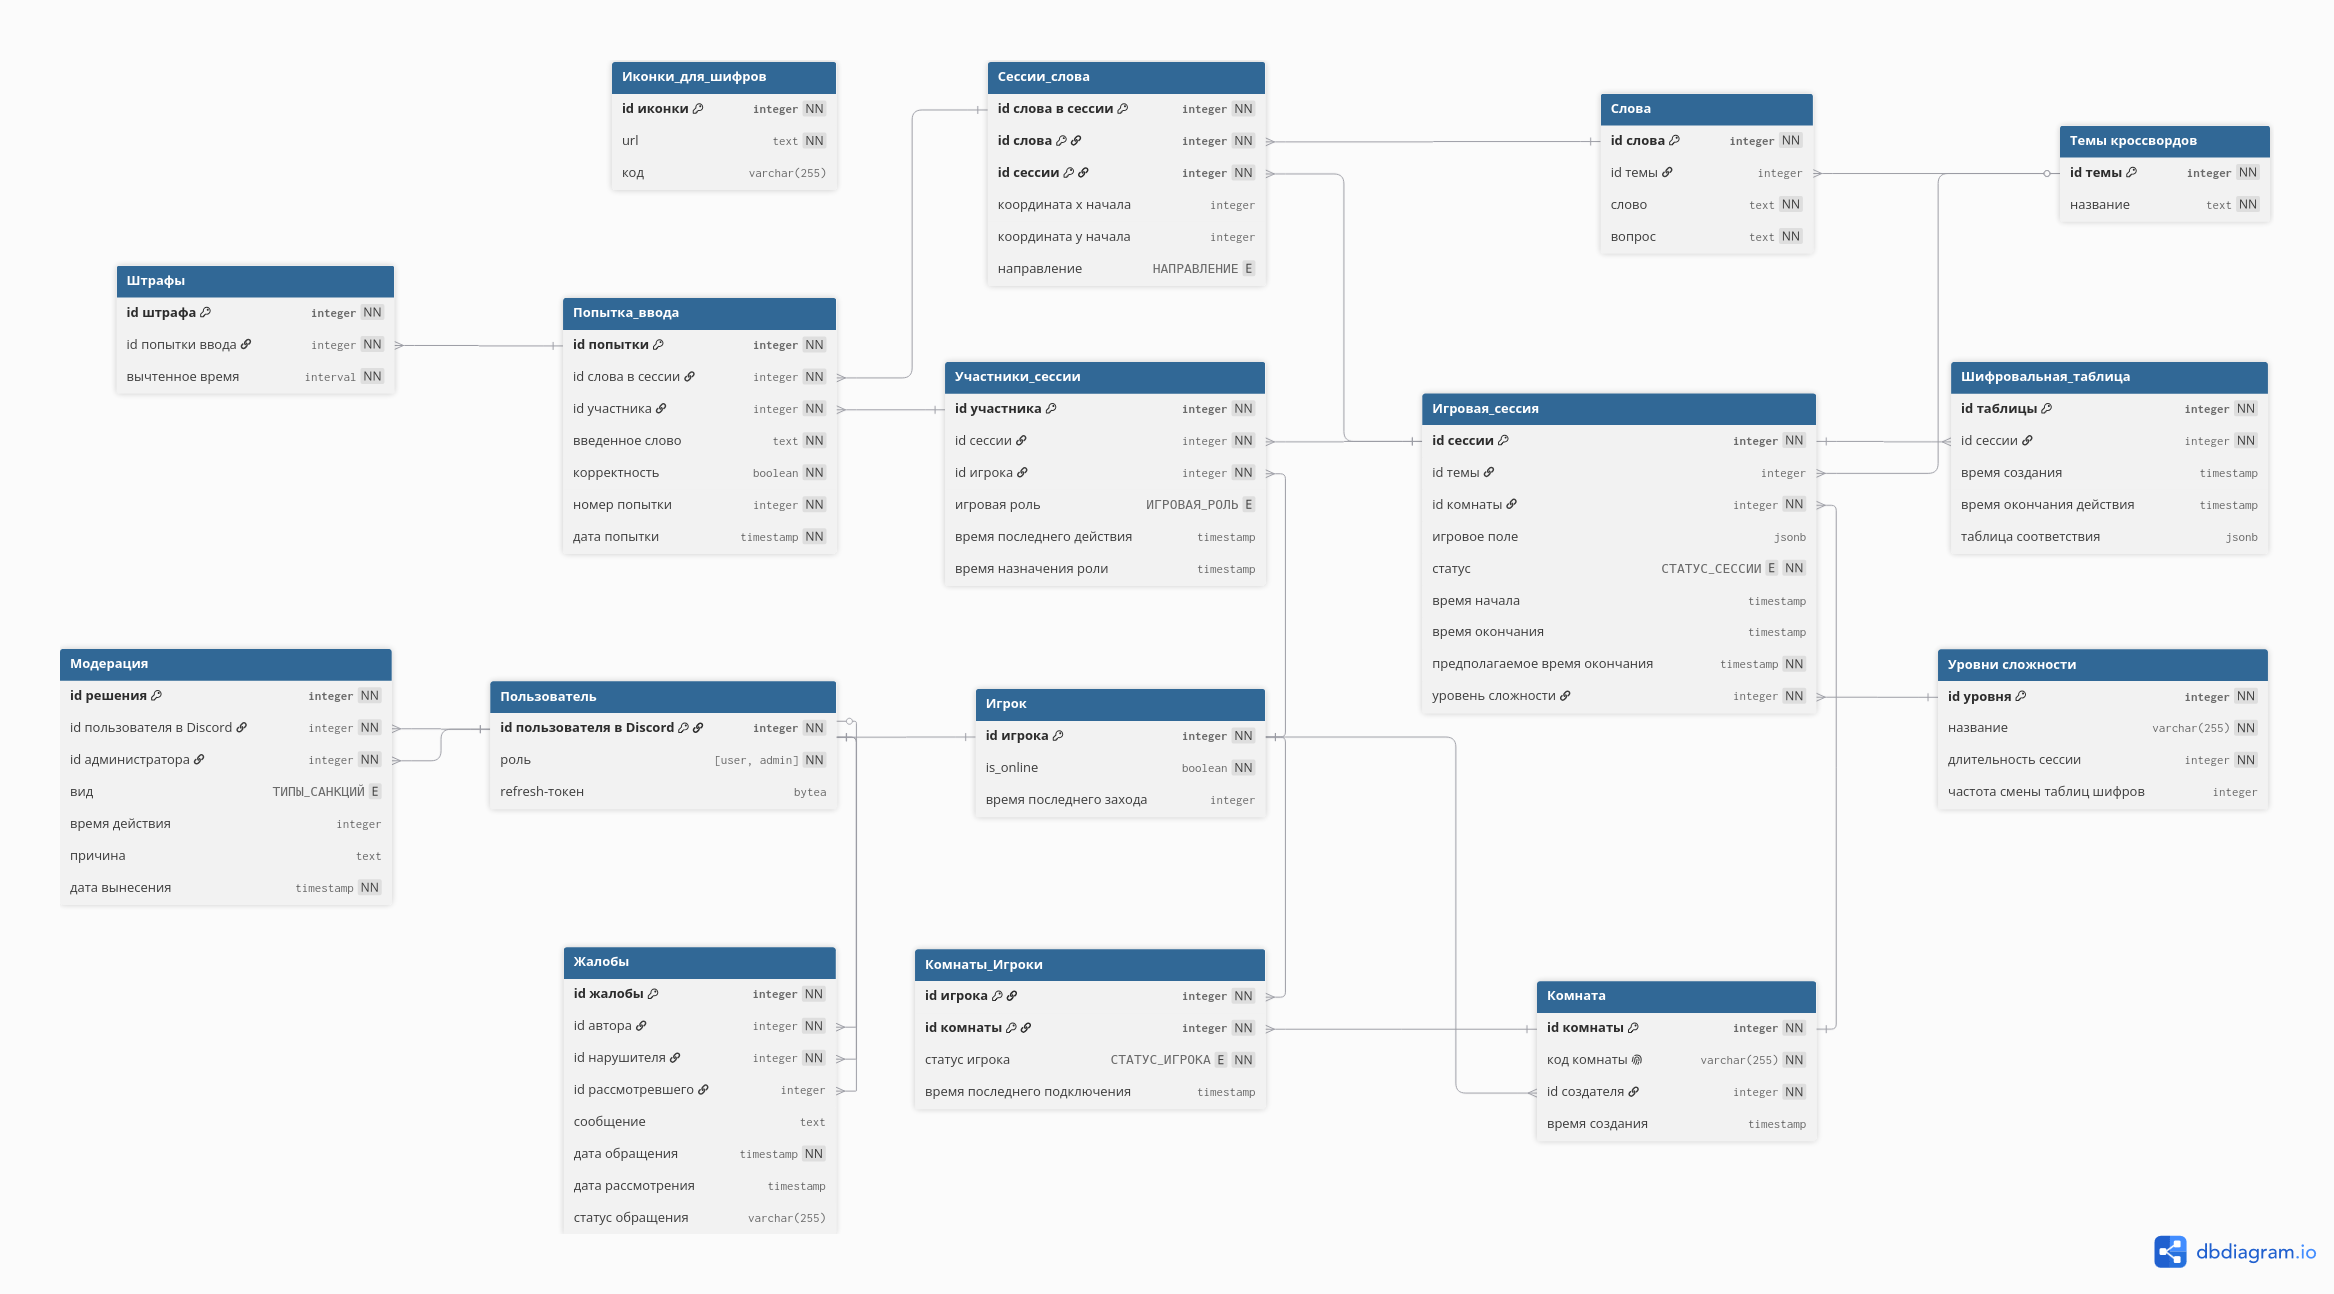
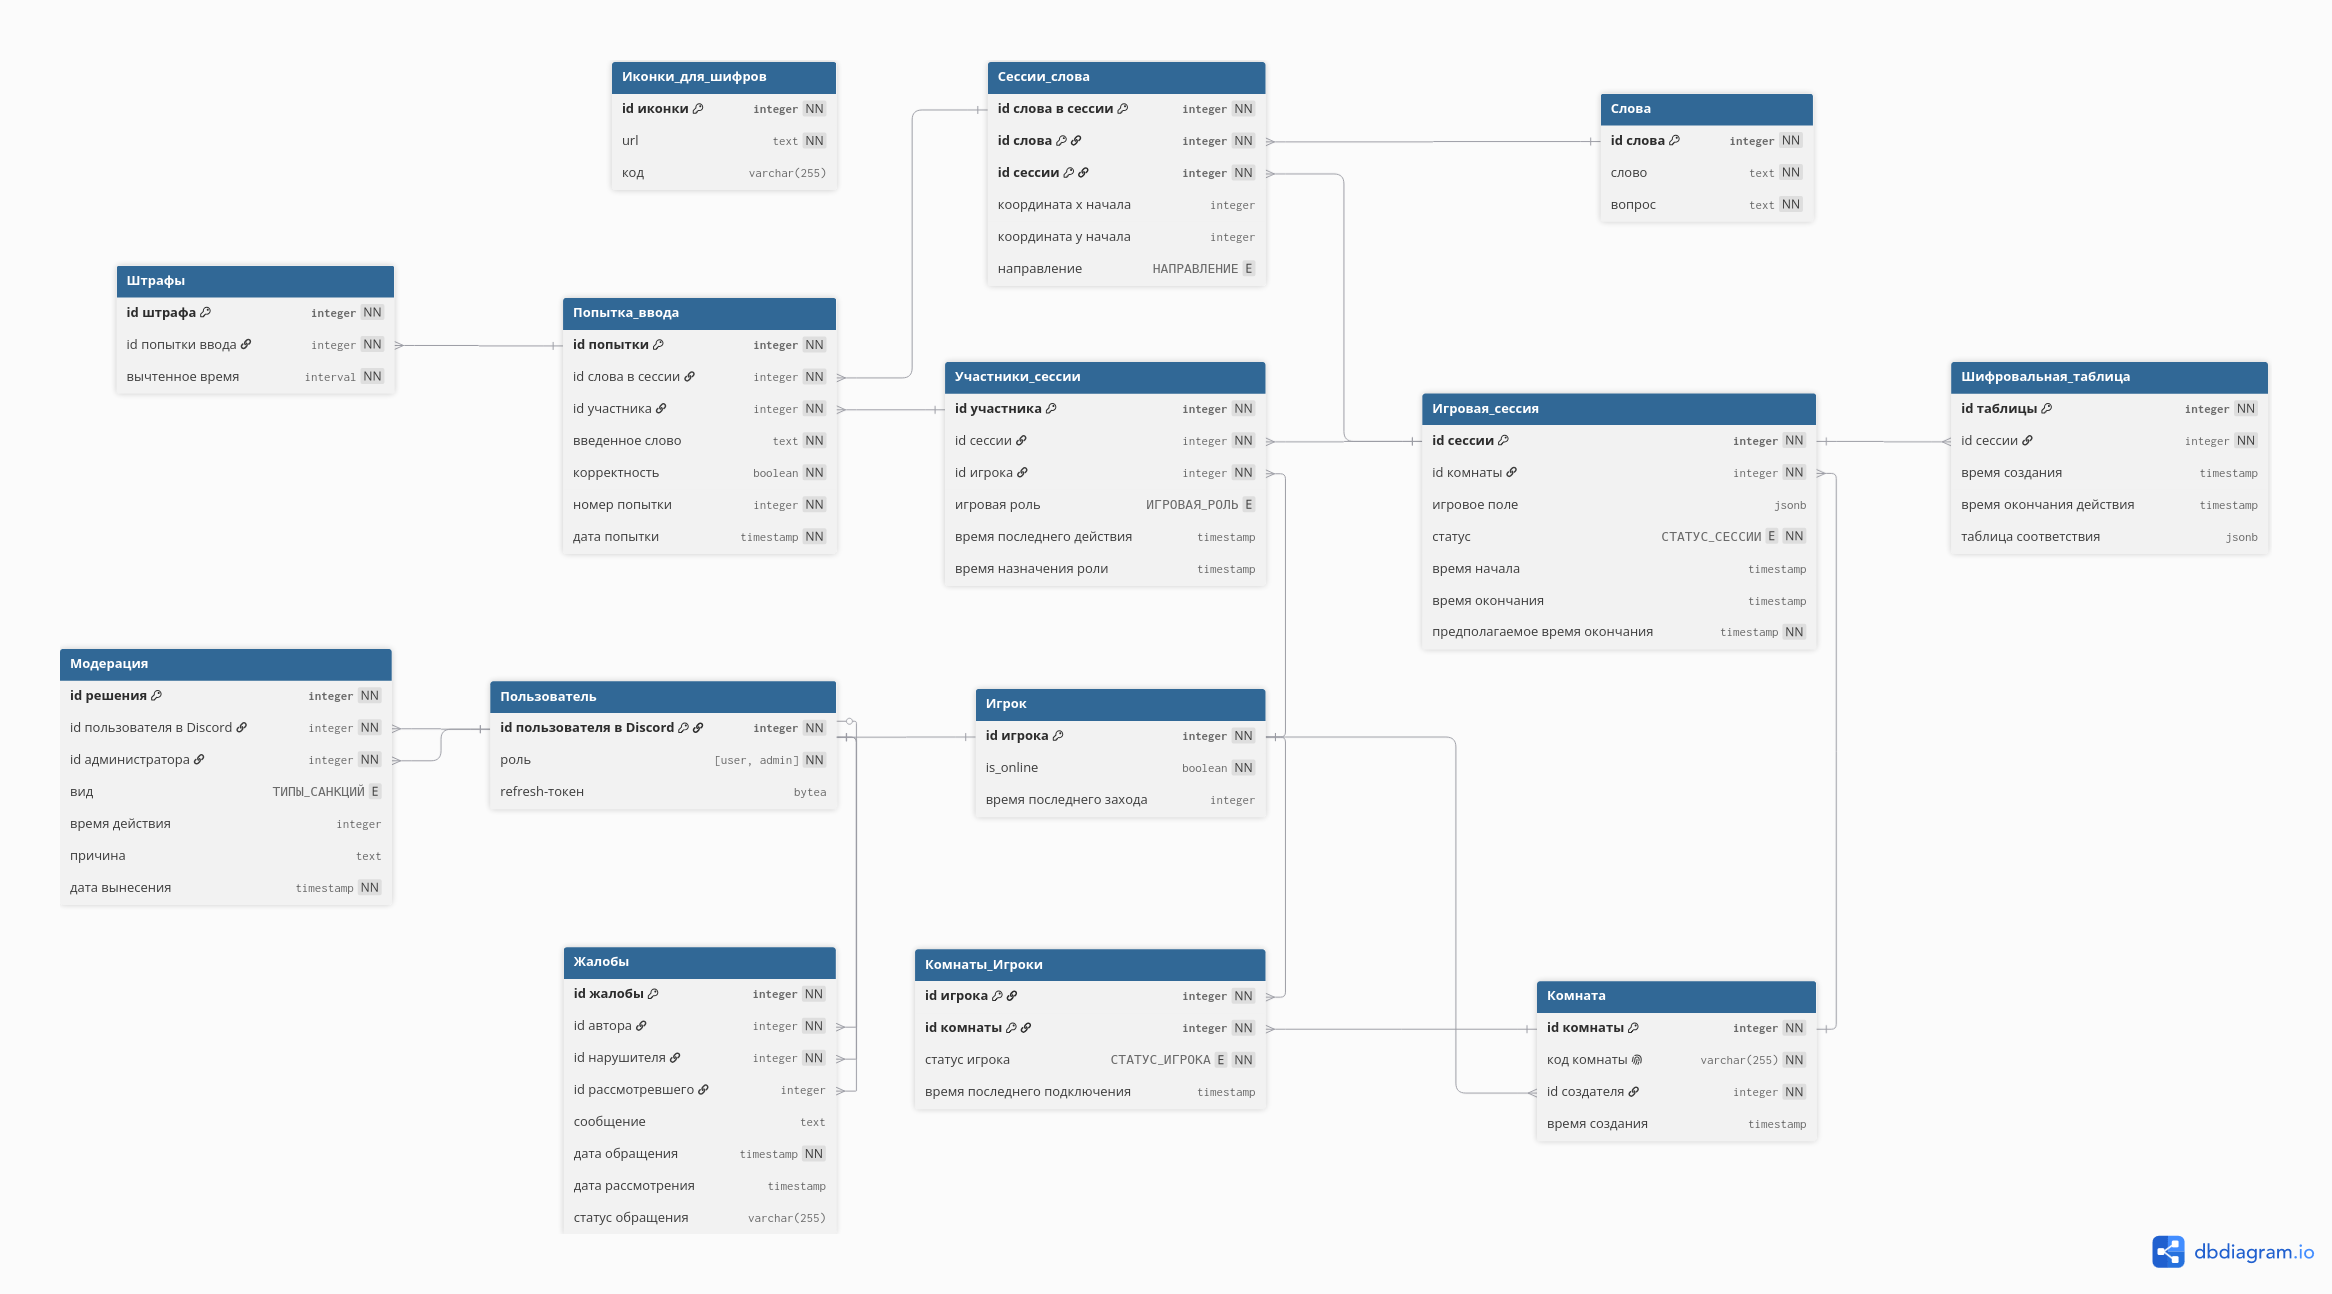
fix: [erd.png entities.md] remove difficulty & topics

diff --git a/result/13/entities.md b/result/13/entities.md
@@ -4,8 +4,7 @@
 * **Комната** — лобби для сбора игроков.
 * **Игровая сессия**.
 * **Участник сессии** — игрок с назначенной в рамках сессии ролью.
-* **Слово**, **Тема кроссворда**, **Слово в сессии** — содержимое кроссворда.
+* **Слово** и **Слово в сессии** — содержимое кроссворда.
 * **Шифровальная таблица** и **Иконки для шифров**.
 * **Попытка ввода** и **Штраф** — история действий игроков и штрафов за ошибки.
-* **Уровень сложности** — параметры матча: длительность и правила смены шифров.
 * **Жалоба** и **Модерация** — инструменты обработки нарушений.